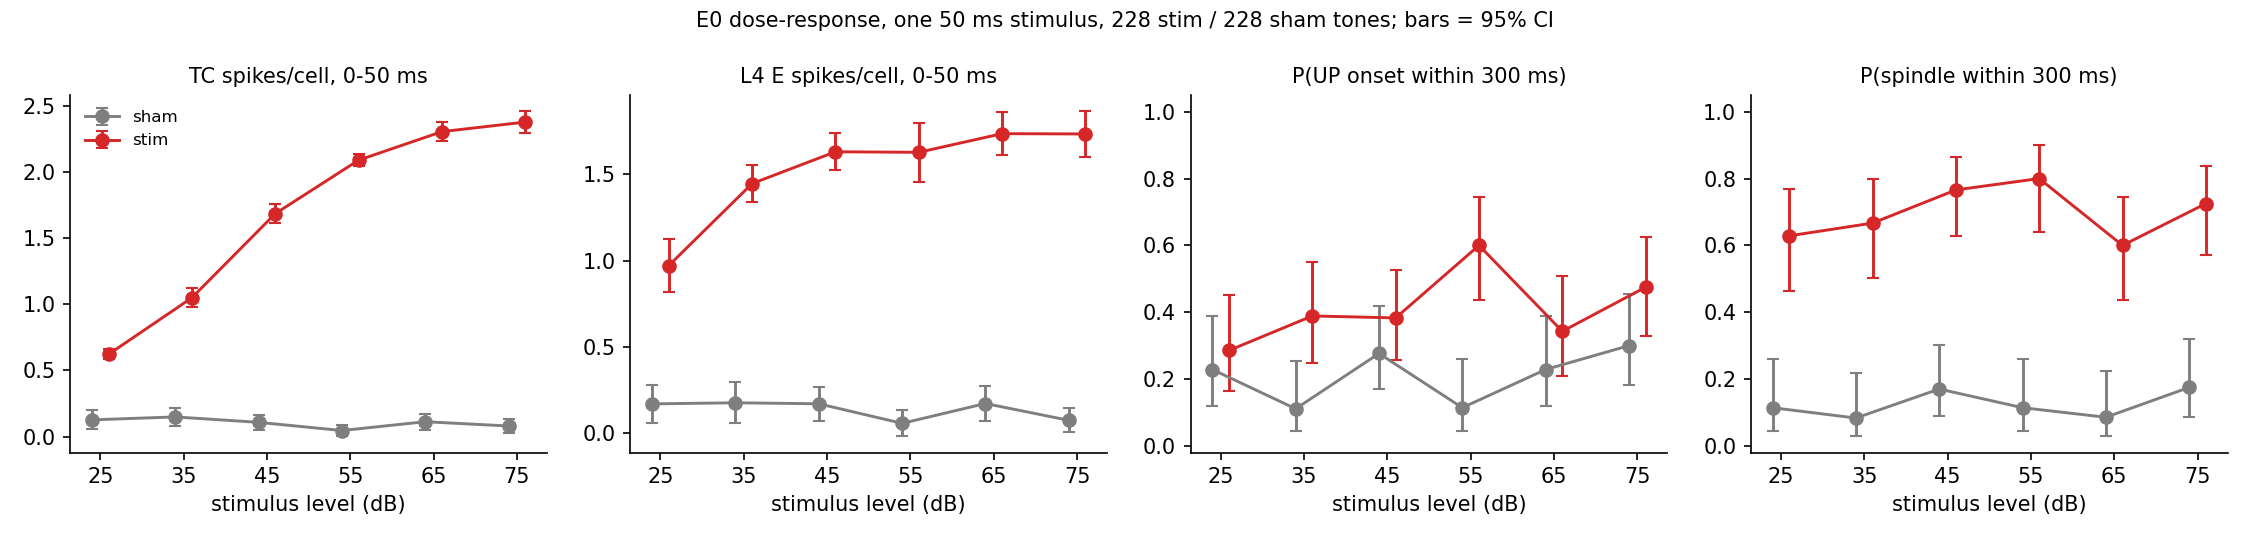
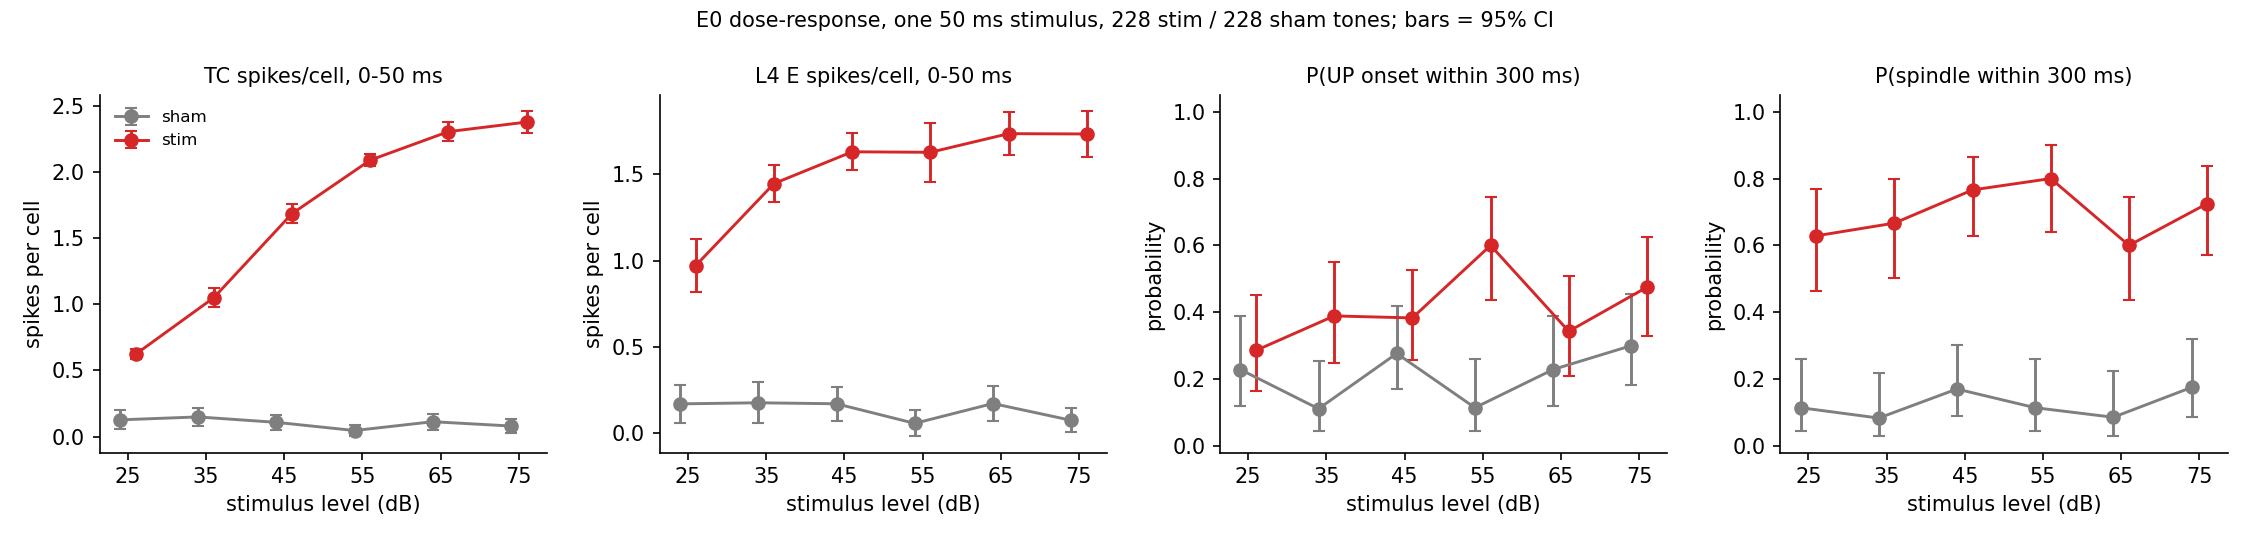
Stimulation-comparison report: y-axis labels on every figure
Label the y axes in stim_dose, stim_train, stim_erp and stim_psth and
redraw the E0 and F1 figures (F1 from res/2026-10-27/f1_rows.pkl).

diff --git a/neuron/stim_train.py b/neuron/stim_train.py
@@ -174,9 +174,9 @@ def figures(D, out_prefix):
     isis = sorted({r["isi"] for r in D["stim"][0] if r["n"] >= 2})
     cmap = plt.get_cmap("viridis")
     fig, axs = plt.subplots(1, 3, figsize=(13, 3.8))
-    for ax, (key, title) in zip(axs, (("tc", "TC spikes/cell, 50 ms after the pulse"),
-                                      ("evoked_up", "P(UP onset within 300 ms)"),
-                                      ("evoked_sp", "P(spindle within 300 ms)"))):
+    for ax, (key, title, ylab) in zip(axs, (("tc", "TC spikes/cell, 50 ms after the pulse", "spikes per cell"),
+                                            ("evoked_up", "P(UP onset within 300 ms)", "probability"),
+                                            ("evoked_sp", "P(spindle within 300 ms)", "probability"))):
         for i, isi in enumerate(isis):
             for arm, ls in (("stim", "-"), ("sham", ":")):
                 ks = sorted({r["k"] for r in D[arm][0] if r["isi"] == isi})
@@ -185,6 +185,7 @@ def figures(D, out_prefix):
                         label=f"{1000/isi:.2f} Hz {arm}" if arm == "stim" or i == 0 else None)
         ax.set_xlabel("pulse index in the train")
         ax.set_title(title, fontsize=10)
+        ax.set_ylabel(ylab)
         ax.spines[["top", "right"]].set_visible(False)
     axs[0].legend(frameon=False, fontsize=6, ncol=2)
     fig.suptitle("Response along the train, by stimulation rate (solid = stim, dotted = sham fake pulses)", fontsize=10)
@@ -214,6 +215,8 @@ def figures(D, out_prefix):
         ax.set_title({"up": "UP-onset rate during the train (Hz)",
                       "R": "UP vector strength in the stimulus period",
                       "post": "UP rate 1-6 s after the train (Hz)"}[key], fontsize=10)
+        ax.set_ylabel({"up": "UP onsets per s (Hz)", "R": "vector strength R (0-1)",
+                       "post": "UP onsets per s (Hz)"}[key])
         ax.spines[["top", "right"]].set_visible(False)
     axs[0].legend(frameon=False, fontsize=8)
     axs[1].set_xlabel("protocol: n stimuli @ rate (Hz)", fontsize=8)

diff --git a/neuron/stim_erp.py b/neuron/stim_erp.py
@@ -97,7 +97,7 @@ def figure(S, cols, out_png, title):
             ax.axvline(0, color="k", lw=0.6, ls=":")
             ax.spines[["top", "right"]].set_visible(False)
             if j == 0:
-                ax.set_ylabel(nm, fontsize=8)
+                ax.set_ylabel(f"{nm}\nLFP proxy (z, sham SD)", fontsize=7)
             if i == 0:
                 ax.set_title(lab, fontsize=9)
                 ax.legend(frameon=False, fontsize=6, loc="upper right")

diff --git a/neuron/stim_psth.py b/neuron/stim_psth.py
@@ -80,7 +80,7 @@ def figure(S, cols, out_png, title):
             ax.set_ylim(bottom=0)
             ax.spines[["top", "right"]].set_visible(False)
             if j == 0:
-                ax.set_ylabel(f"{nm}\nHz/cell", fontsize=7)
+                ax.set_ylabel(f"{nm}\nrate (Hz/cell)", fontsize=7)
             if i == 0:
                 ax.set_title(lab, fontsize=9)
                 ax.legend(frameon=False, fontsize=6, loc="upper right")

diff --git a/neuron/stim_dose.py b/neuron/stim_dose.py
@@ -80,6 +80,7 @@ def figure(rows, levels, out_png):
         ax.set_xticklabels([f"{int(l)}" for l in levels])
         ax.set_xlabel("stimulus level (dB)")
         ax.set_title(title, fontsize=10)
+        ax.set_ylabel("probability" if binary else "spikes per cell")
         ax.spines[["top", "right"]].set_visible(False)
         if binary:
             ax.set_ylim(-0.02, 1.05)
